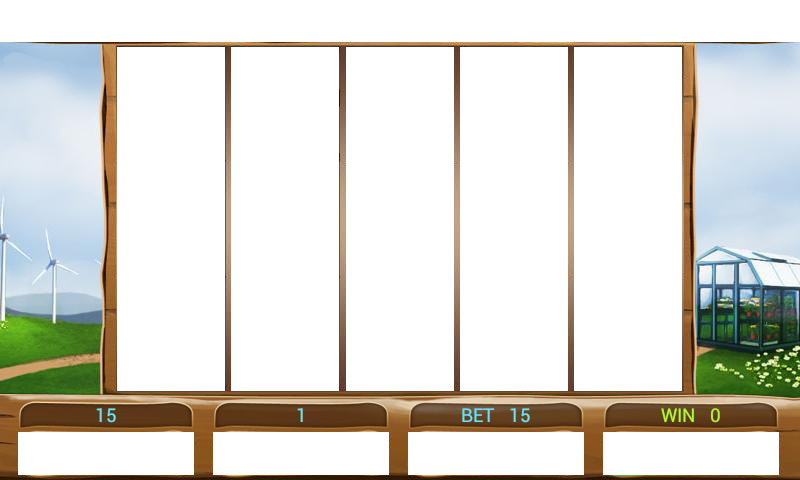
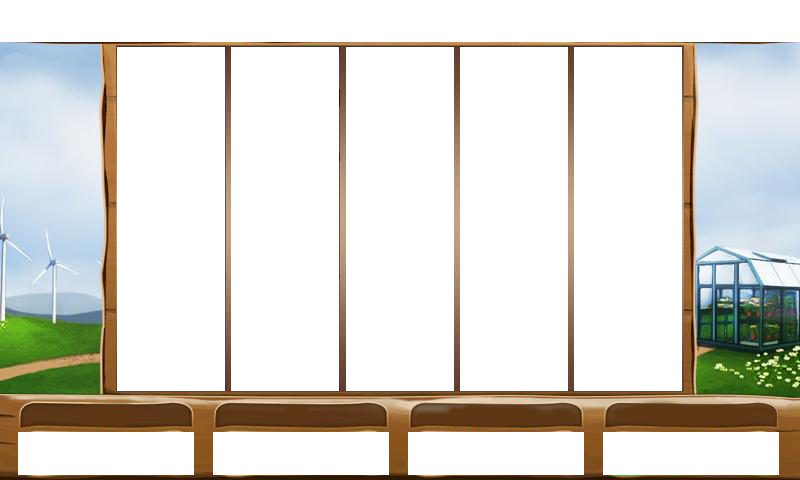
All buttons functional. Labels in place, functional. Win conditions need expanding.

diff --git a/js/game.js b/js/game.js
@@ -13,6 +13,7 @@ var reels = [
 
 var reel_images = [];
 var bet_100_btn, bet_50_btn, bet_10_btn, spin_btn, exit_btn, reset_btn;
+var display_money, display_turn, display_wins, display_bet, display_jackpot, display_winnings;
     
  var y_offset = 110;  
  var reel_start_y = 100;
@@ -31,12 +32,42 @@ function showStats()
         $("#win_ratio").html("" + ((game.wins / game.turn) * 100) + "%" );
     else
         $("#win_ratio").html("0%" );
+    
+    stage.removeChild(display_money);
+    stage.removeChild(display_bet);
+    stage.removeChild(display_wins);
+    stage.removeChild(display_winnings);
+    stage.removeChild(display_jackpot);
+    
+    display_money = new createjs.Text("Bal: $" + game.player_money, "bold 24px Arial", "#ffffff");
+    display_money.x = 30;
+    display_money.y = stage.canvas.height - 75; 
+    
+    display_bet = new createjs.Text("Bet: $" + game.bet, "bold 24px Arial", "#ffffff");
+    display_bet.x = 255;
+    display_bet.y = stage.canvas.height - 75;
+    
+    display_wins = new createjs.Text("Wins: " + game.wins, "bold 24px Arial", "#ffffff");
+    display_wins.x = 445;
+    display_wins.y = stage.canvas.height - 75;    
+        
+    display_winnings = new createjs.Text("Won: $" + game.winnings, "bold 24px Arial", "#ffffff");
+    display_winnings.x = 620;
+    display_winnings.y = stage.canvas.height - 75;    
+    
+    display_jackpot = new createjs.Text("JACKPOT: $" + game.jackpot, "bold 32px Arial", "#ff7700");
+    display_jackpot.y = 10;
+    display_jackpot.x = 250;
+    
+    stage.addChild(display_money);
+    stage.addChild(display_bet);
+    stage.addChild(display_wins);
+    stage.addChild(display_winnings);
+    stage.addChild(display_jackpot);           
 }
 
 function spin()
-{    
-    game.bet = $("#place_bet").val();
-
+{        
     if(game.bet > game.player_money)        
         alert("You too broke for this game son!");                                
     else if(!(game.bet > 0))        
@@ -93,9 +124,11 @@ function spin()
 function bet(amount)
 {
     if(amount <= game.player_money)
-        $("#place_bet").val(amount);
+        game.bet = amount;
     else
         alert("You don't have enough money to bet this high");
+    
+    showStats();
 }
 
 function checkWinnings()
@@ -103,7 +136,8 @@ function checkWinnings()
     if(outcome.rattata === 0)
     {
         game.wins++;
-
+        game.winnings += game.bet;
+        
         if(outcome.pidgey === 3)
             game.winnings += game.bet * 10;
 
@@ -131,7 +165,8 @@ function checkJackpot()
     if (jackPotTry === jackPotWin) {
         alert("You Won the $" + game.jackpot + " Jackpot!!");
         game.player_money += game.jackpot;
-        game.jackpot = 1000;
+        game.jackpot *= 2;
+        showStats();
     }
 }
 
@@ -177,11 +212,6 @@ function quit()
    window.close();
 }
 
-function checkRange(roll, min, max)
-{        
-    return (roll >= min && roll <= max) ? roll : !roll;
-}
-
 function preload() {
     queue = new createjs.LoadQueue();
     queue.installPlugin(createjs.Sound);
@@ -208,9 +238,9 @@ function init() {
     stage = new createjs.Stage(document.getElementById("canvas"));
     stage.enableMouseOver(20);
     createjs.Ticker.setFPS(60);
-    createjs.Ticker.addEventListener("tick", handleTick);
-    setup();
+    createjs.Ticker.addEventListener("tick", handleTick);    
     gameStart();
+    setup();
 }
 
 function handleTick(event) {
@@ -221,7 +251,7 @@ function setup()
 {
     game = {
         jackpot: 500,
-        player_money: 20,
+        player_money: 1000,
         winnings: 0,
         bet: 0,
         turn: 0,
@@ -256,9 +286,7 @@ function setup()
             }
         };    
         
-    $("#spin_button").click(function(){ spin();});
-    $("#reset_button").click(function(){reset();});
-    $("#quit_button").click(function(){quit();});    
+     $("#place_bet").val(0);    
     showStats();        
 }
 
@@ -320,7 +348,6 @@ function gameStart() {
     bet_10_btn.on("click", function(){bet(10);});
     bet_50_btn.on("click", function(){bet(50);});
     bet_100_btn.on("click", function(){bet(100);});
-    
-    
+
     createjs.Sound.play("yay");
 }

diff --git a/index.html b/index.html
@@ -8,7 +8,7 @@
     <body onload="preload()">
         
         <div id="container">
-            <div id="stats">
+            <div style="display: none" id="stats">
                 <p>
                     Jackpot: <span id="jackpot"></span><br/>
                     Player Money: <span id="player_money"></span><br/>
@@ -19,7 +19,7 @@
                 </p>
             </div>
             
-            <div id="place_bet_container">
+            <div style="display: none" id="place_bet_container">
                 Place Your Bet: <input type="text" id="place_bet" name="place_bet"/>
             </div>
             
@@ -29,11 +29,7 @@
             
             <canvas id="canvas" width="800" height="480"></canvas>
             
-            <div id="buttons_container">
-                <button id="spin_button">SPIN</button>
-                <button id="reset_button">RESET</button>
-                <button id="quit_button">QUIT</button>
-            </div>
+
         </div>        
         <script src="js/jquery-2.1.1.min.js"></script>                
         <script src="js/easeljs-0.7.1.min.js"></script>
